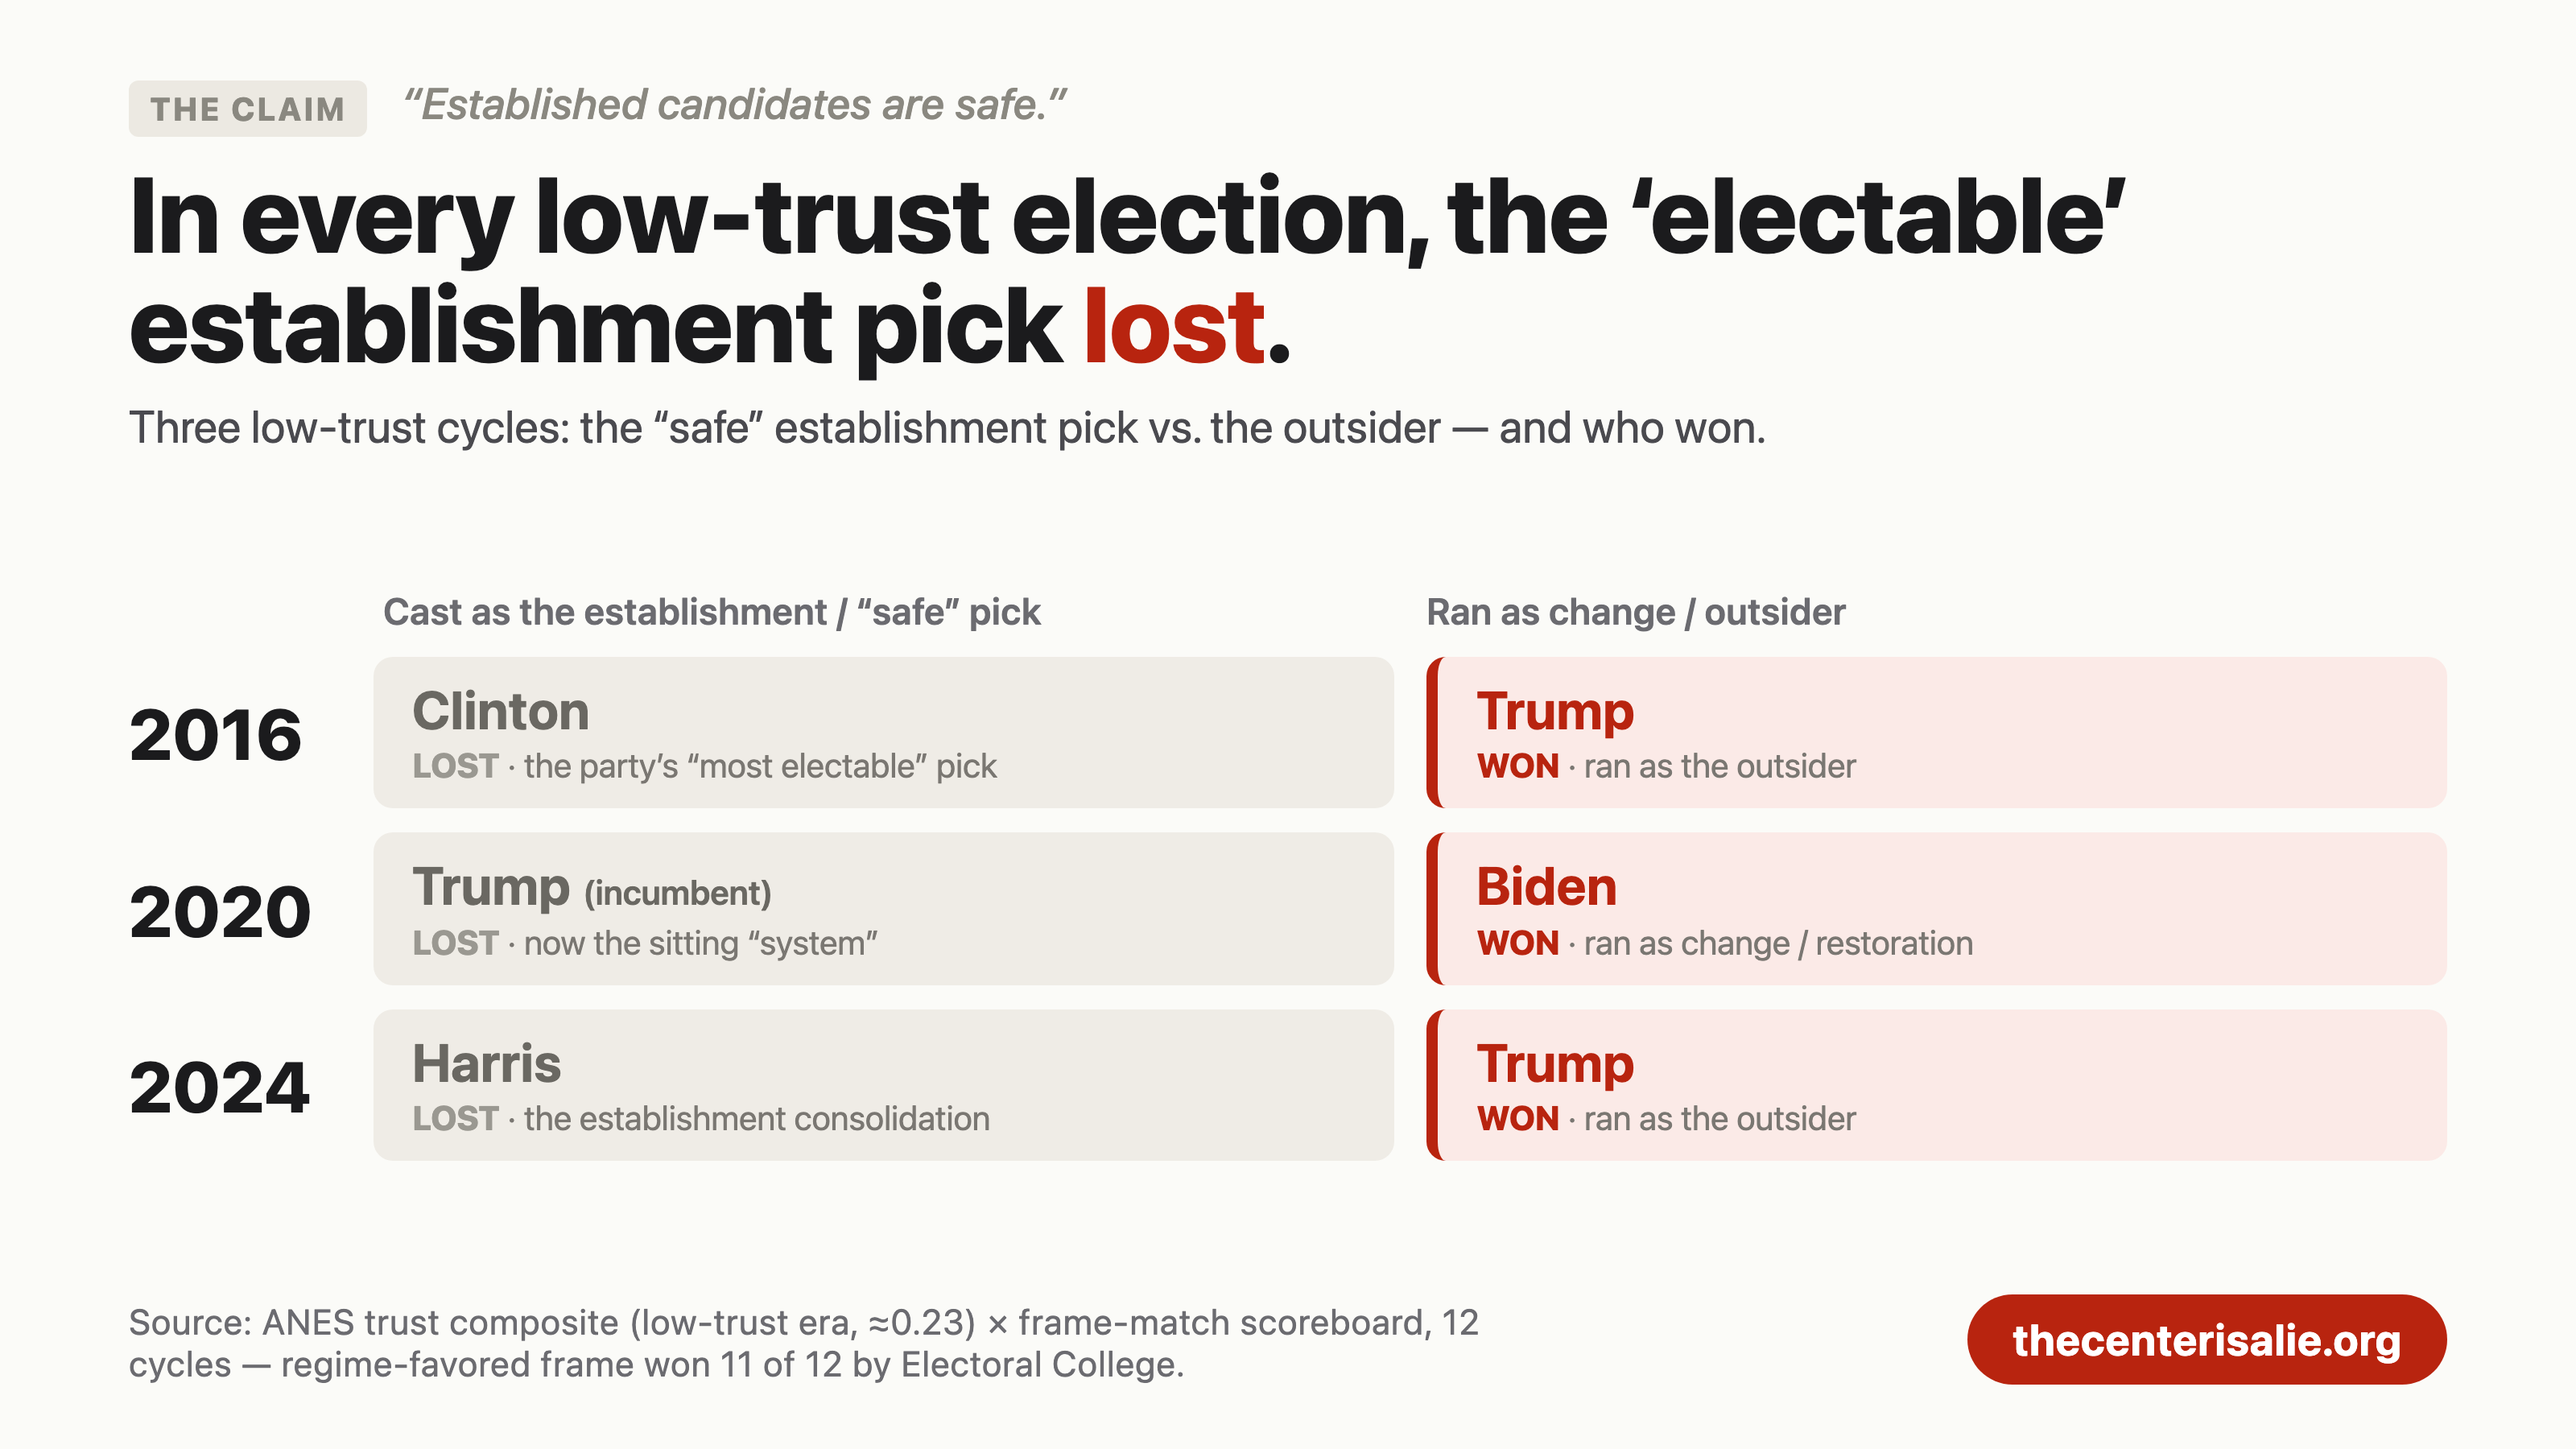
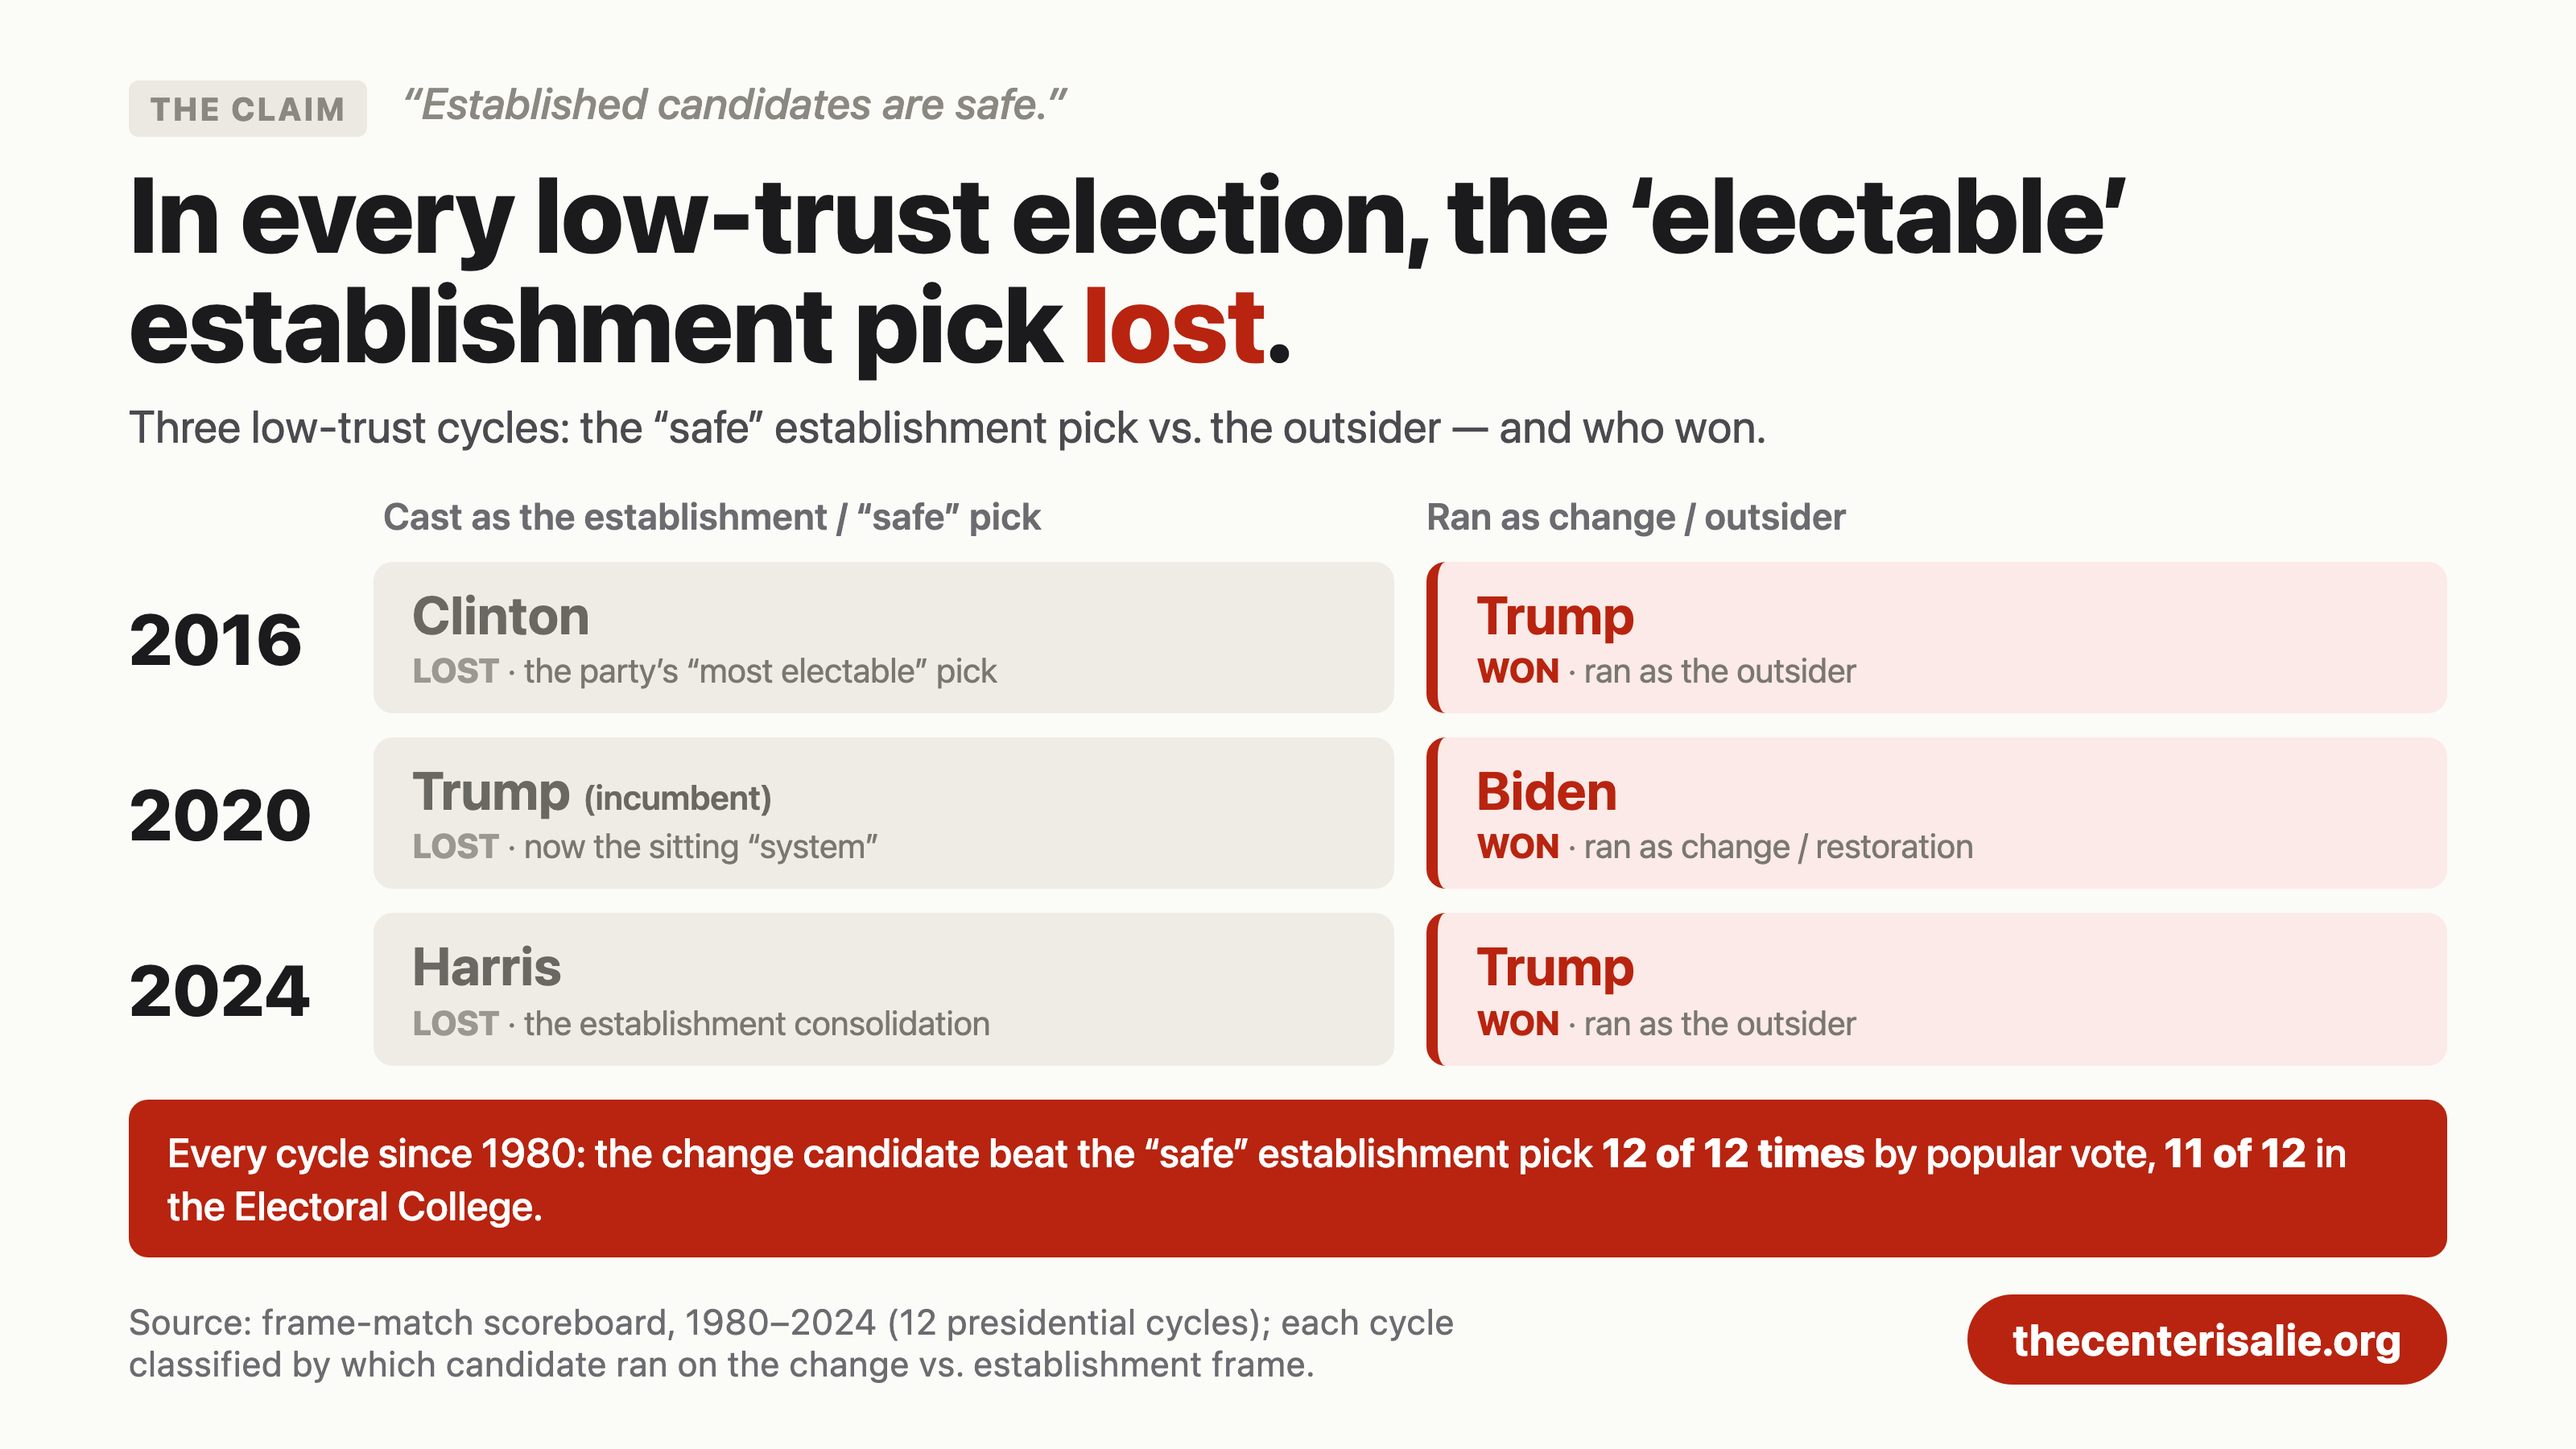
fix(og): surface the 12-of-12 scoreboard on changelane
The strongest number in the deck (change candidate beat the establishment
pick 12/12 popular, 11/12 EC, 1980-2024) was buried in the footer. Promote
it to a red summary band; correct the window to 1980-2024.

diff --git a/web/og-cards/chart-changelane.html b/web/og-cards/chart-changelane.html
@@ -16,6 +16,9 @@
   .sb-tag { font-weight: 800; }
   .sb-cell--lost .sb-tag { color: #9a9891; }
   .sb-cell--won  .sb-tag { color: #b8240f; }
+  .sb-tot { margin-top: 6px; padding: 16px 24px; background: #b8240f; color: #fff;
+    border-radius: 12px; font-size: 25px; line-height: 1.32; font-weight: 500; }
+  .sb-tot strong { font-weight: 800; }
 </style></head>
 <body>
   <div class="chartcard">
@@ -40,10 +43,11 @@
         <div class="sb-cell sb-cell--lost"><div class="sb-cand">Harris</div><div class="sb-role"><span class="sb-tag">LOST</span> &middot; the establishment consolidation</div></div>
         <div class="sb-cell sb-cell--won"><div class="sb-cand">Trump</div><div class="sb-role"><span class="sb-tag">WON</span> &middot; ran as the outsider</div></div>
       </div>
+      <div class="sb-tot">Every cycle since 1980: the change candidate beat the &ldquo;safe&rdquo; establishment pick <strong>12 of 12 times</strong> by popular vote, <strong>11 of 12</strong> in the Electoral College.</div>
     </div></div>
 
     <div class="cc-foot">
-      <div class="cc-source">Source: ANES trust composite (low-trust era, &asymp;0.23) &times; frame-match scoreboard, 12 cycles &mdash; regime-favored frame won 11 of 12 by Electoral College.</div>
+      <div class="cc-source">Source: frame-match scoreboard, 1980&ndash;2024 (12 presidential cycles); each cycle classified by which candidate ran on the change vs. establishment frame.</div>
       <div class="cc-btn">thecenterisalie.org</div>
     </div>
   </div>
